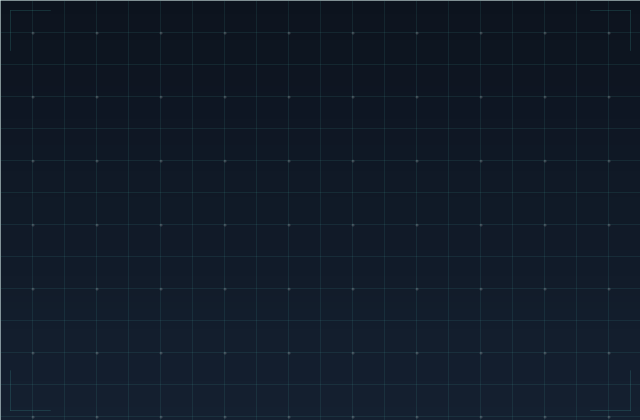
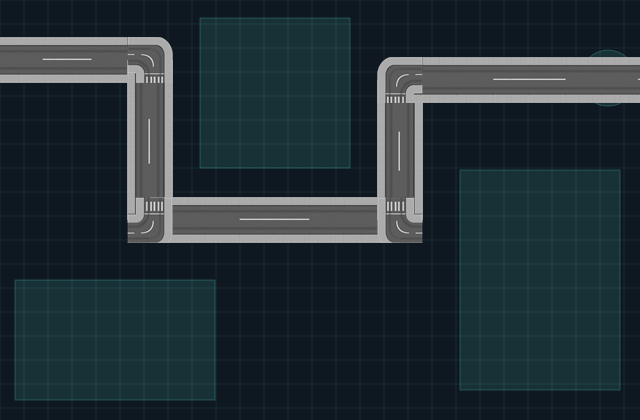
feat: compose background map using Road_test road tiles

diff --git a/js/core/Game.js b/js/core/Game.js
@@ -385,33 +385,30 @@ export class Game {
   }
 
   /**
-   * 繪製防守路徑（科技光帶與導引虛線）
+   * 繪製防守路徑（若已有背景圖則僅繪製精細導引光點，未載入時繪製備用路徑）
    */
-  drawPath() {
+  drawPath(hasBgImage = false) {
     const ctx = this.ctx;
     const path = CONFIG.PATH;
 
-    // 路基深色粗線
-    ctx.strokeStyle = '#1e293b';
-    ctx.lineWidth = 36;
-    ctx.lineCap = 'round';
-    ctx.lineJoin = 'round';
-    ctx.beginPath();
-    ctx.moveTo(path[0].x, path[0].y);
-    for (let i = 1; i < path.length; i++) {
-      ctx.lineTo(path[i].x, path[i].y);
+    if (!hasBgImage) {
+      // 備用底層路基
+      ctx.strokeStyle = '#1e293b';
+      ctx.lineWidth = 36;
+      ctx.lineCap = 'round';
+      ctx.lineJoin = 'round';
+      ctx.beginPath();
+      ctx.moveTo(path[0].x, path[0].y);
+      for (let i = 1; i < path.length; i++) {
+        ctx.lineTo(path[i].x, path[i].y);
+      }
+      ctx.stroke();
     }
-    ctx.stroke();
 
-    // 邊緣能量光軌
-    ctx.strokeStyle = 'rgba(79, 209, 197, 0.25)';
-    ctx.lineWidth = 38;
-    ctx.stroke();
-
-    // 中央導引虛線
-    ctx.strokeStyle = '#4fd1c5';
+    // 中央微光科技導引線
+    ctx.strokeStyle = 'rgba(79, 209, 197, 0.4)';
     ctx.lineWidth = 2;
-    ctx.setLineDash([8, 8]);
+    ctx.setLineDash([6, 8]);
     ctx.beginPath();
     ctx.moveTo(path[0].x, path[0].y);
     for (let i = 1; i < path.length; i++) {
@@ -457,7 +454,7 @@ export class Game {
     const ctx = this.ctx;
     ctx.save();
     ctx.font = 'bold 12px sans-serif';
-    ctx.fillStyle = 'rgba(255, 255, 255, 0.4)';
+    ctx.fillStyle = 'rgba(255, 255, 255, 0.45)';
     ctx.textAlign = 'left';
     ctx.textBaseline = 'bottom';
     ctx.fillText('製作人：11311385', 12, this.height - 10);
@@ -470,17 +467,18 @@ export class Game {
   render(now) {
     this.ctx.clearRect(0, 0, this.width, this.height);
 
-    // 1. 繪製背景圖 (drawImage 填滿畫布)
+    // 1. 繪製由 Road_test.png 組成的背景地圖
     const bgImg = this.assetManager.getImage('background');
-    if (bgImg) {
+    const hasBg = !!bgImg;
+    if (hasBg) {
       this.ctx.drawImage(bgImg, 0, 0, this.width, this.height);
     } else {
       this.ctx.fillStyle = CONFIG.COLORS.BG;
       this.ctx.fillRect(0, 0, this.width, this.height);
     }
 
-    // 2. 繪製防守路徑
-    this.drawPath();
+    // 2. 繪製路徑導引線
+    this.drawPath(hasBg);
 
     // 3. 繪製基地防線指揮官 (Player Entity - drawImage 動態精靈切分播放)
     const playerImg = this.assetManager.getImage('player');
